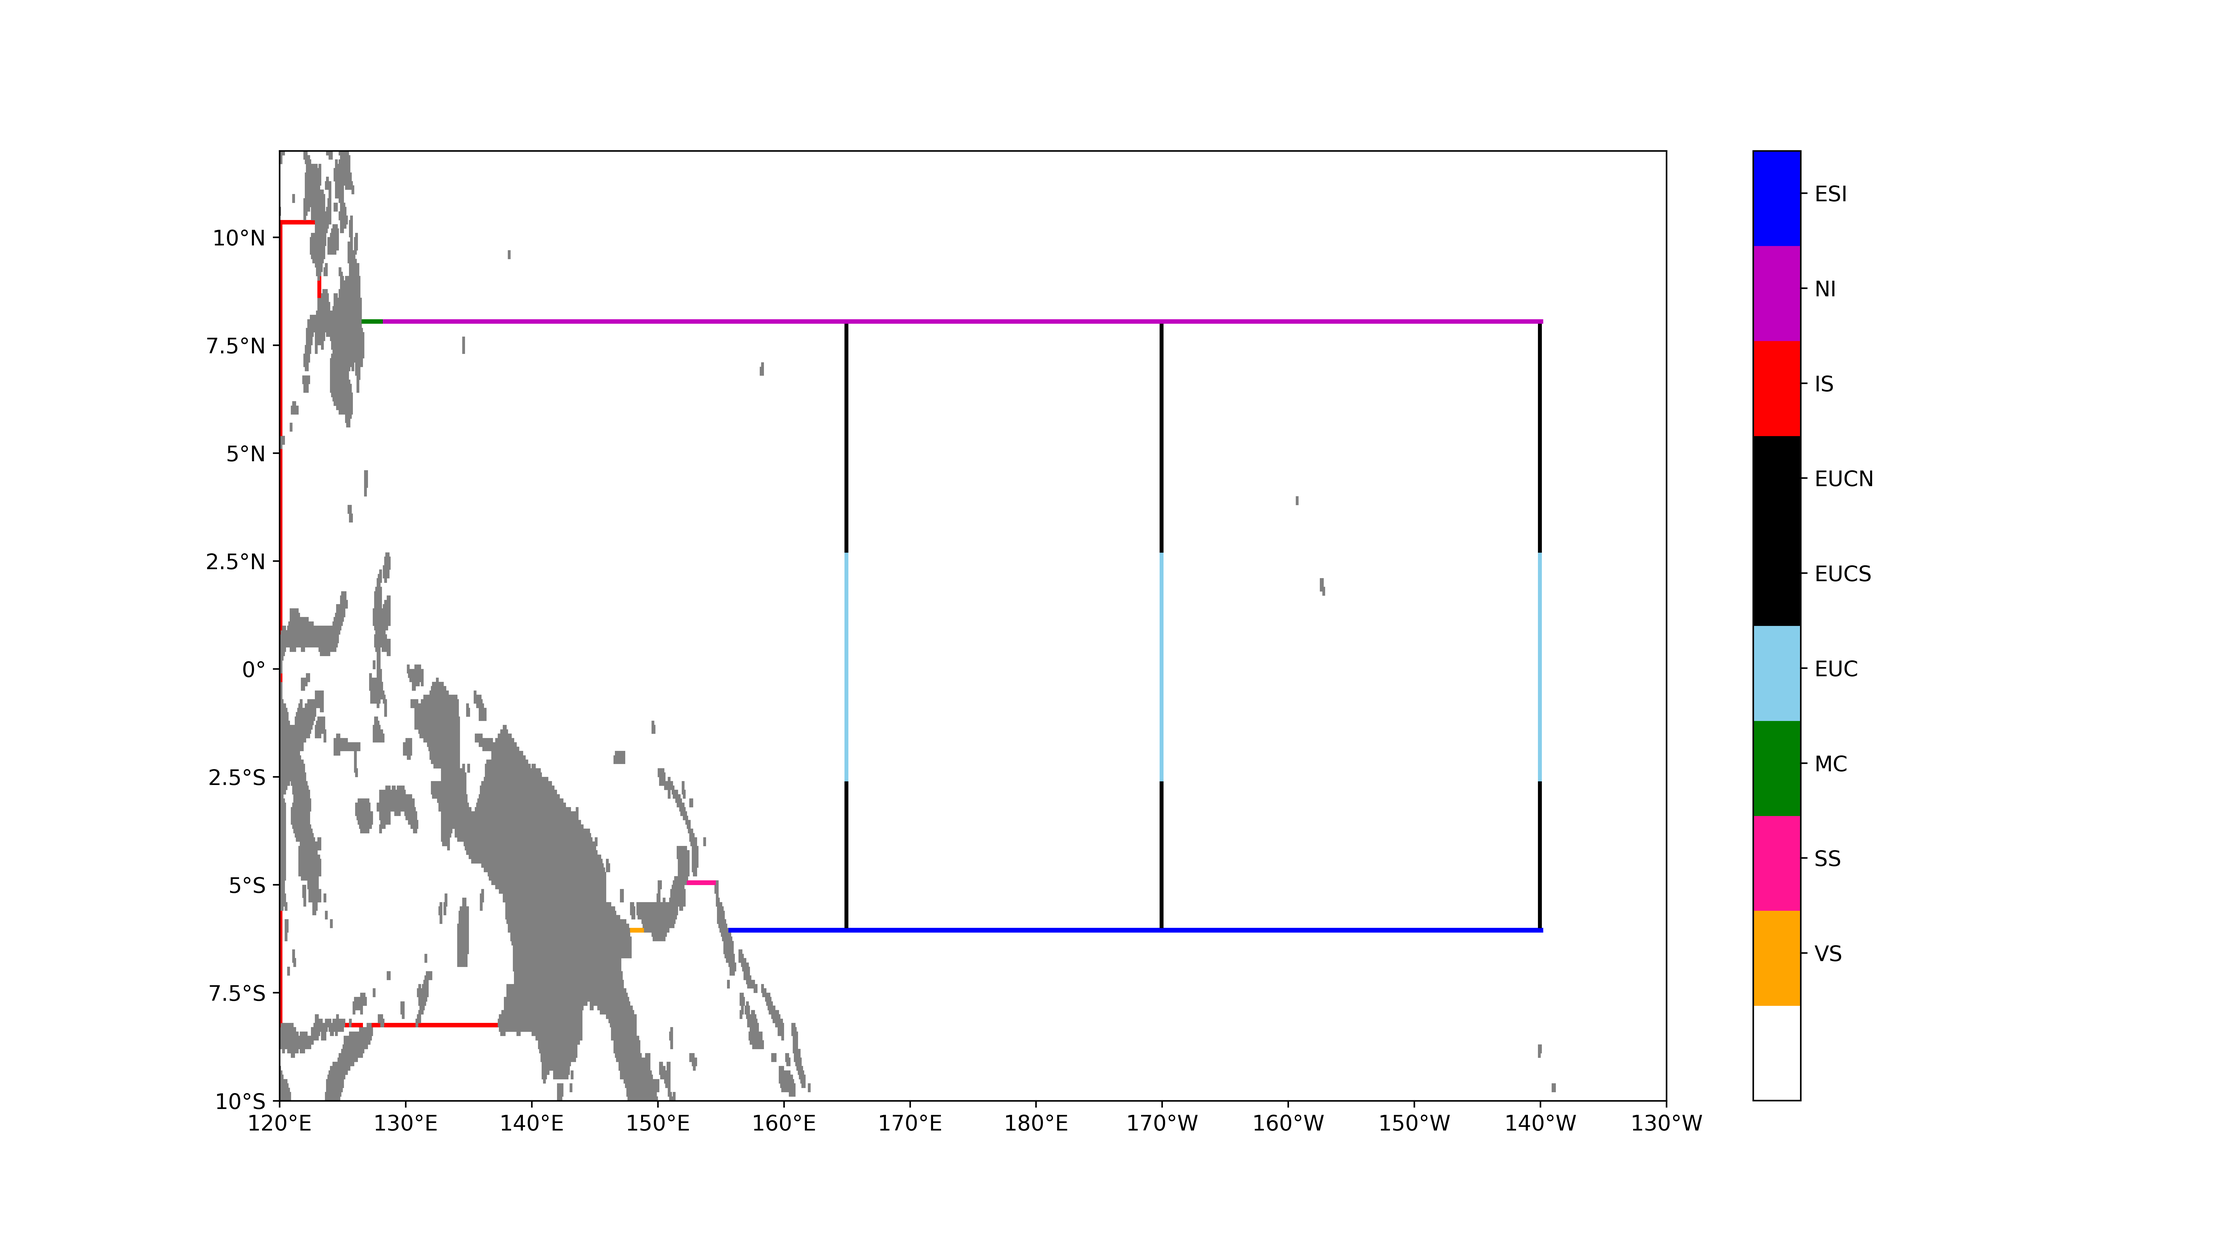
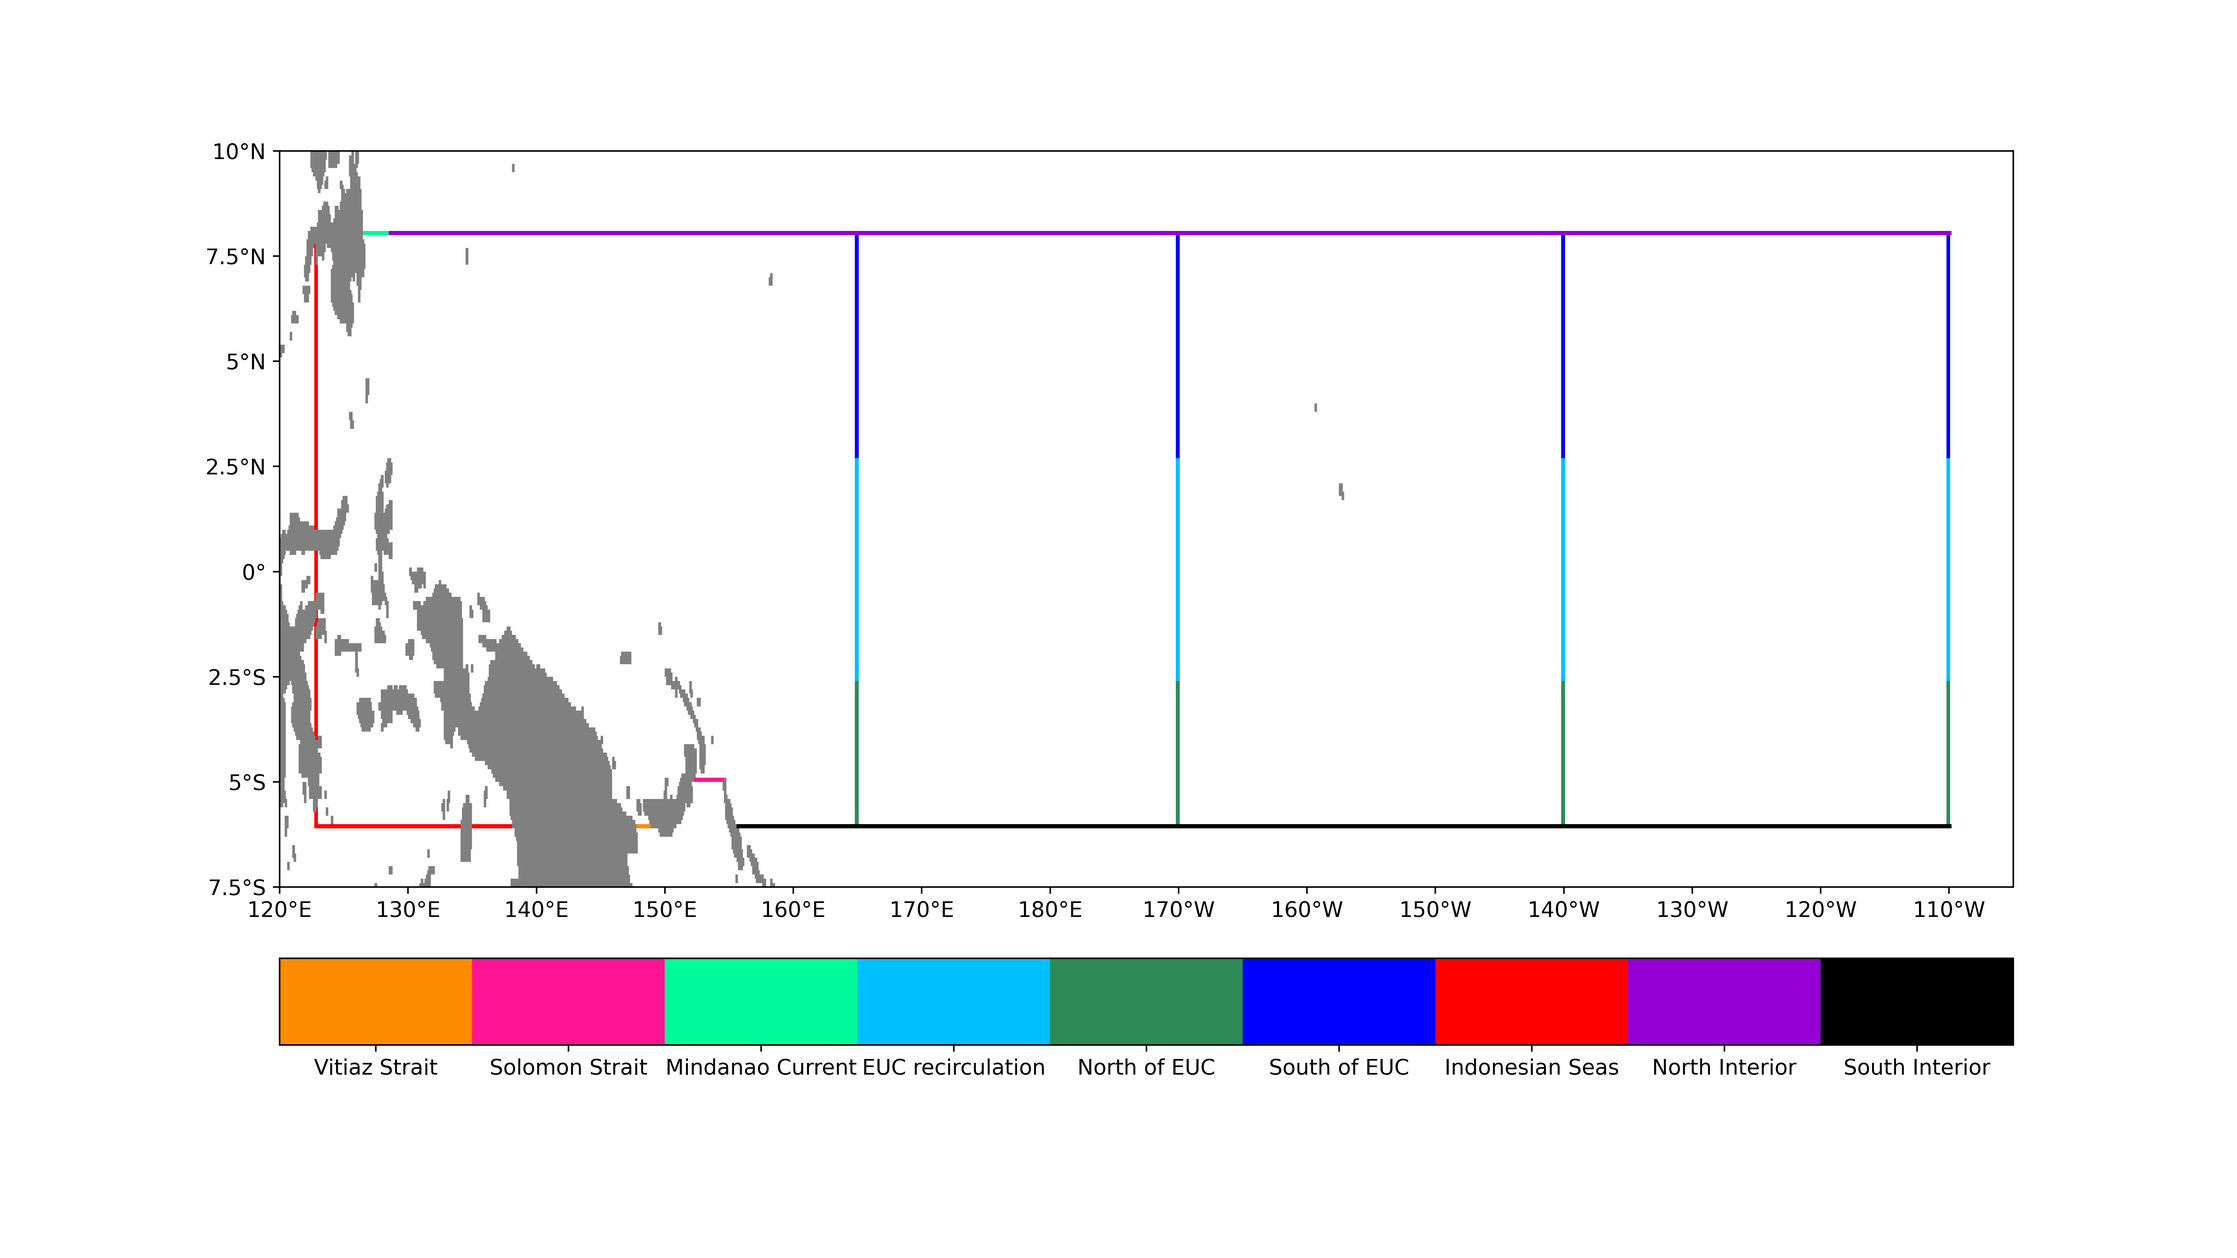
Changed fields file

diff --git a/scripts/base.py b/scripts/base.py
@@ -56,7 +56,7 @@ def run_EUC(dy=0.4, dz=25, lon=165, lat=2.6, year=[1981, 2012],
 
     # Run for the number of days between date bounds.
     if runtime_days == 'all':
-        runtime = timedelta(days=(date_bnds[1] - date_bnds[0]).days)
+        runtime = timedelta(days=(date_bnds[1] - date_bnds[0]).days+1)
     else:
         runtime = timedelta(days=int(runtime_days))
 
@@ -78,14 +78,14 @@ def run_EUC(dy=0.4, dz=25, lon=165, lat=2.6, year=[1981, 2012],
     logger.info('{}:Output dt: {:.0f} days'.format(sim_id.stem, outputdt.days))
     logger.info('{}:Repeat release: {} days'.format(sim_id.stem, repeatdt.days))
     logger.info('{}:Particles: Total: {} :/repeat: {}'
-                .format(sim_id.stem, Z * X * Y * math.floor(runtime.days/repeatdt.days), Z * X * Y))
+                .format(sim_id.stem, Z * X * Y * math.ceil(runtime.days/repeatdt.days), Z * X * Y))
 
     # Create fieldset.
     fieldset = main.ofam_fieldset(date_bnds, chunks=chunks, field_method=field_method,
-                                  time_periodic=timedelta(days=(date_bnds[1] - date_bnds[0]).days))
+                                  time_periodic=timedelta(days=(date_bnds[1] - date_bnds[0]).days+1))
 
     # Set fieldset minimum depth.
-    fieldset.mindepth = 2.5
+    fieldset.mindepth = 5
 
     # Set ParticleSet start depth as last fieldset time.
     pset_start = fieldset.U.grid.time[-1]
@@ -137,8 +137,8 @@ if __name__ == "__main__" and cfg.home != Path('E:/'):
 else:
     dy, dz = 1, 200
     lon, lat = 165, 2.6
-    year, month, day = [1981, 1981], 6, 'max'
-    dt_mins, repeatdt_days, outputdt_days, runtime_days = 240, 6, 1, 7
+    year, month, day = [1981, 1981], 1, 'max'
+    dt_mins, repeatdt_days, outputdt_days, runtime_days = 240, 6, 1, 2
     add_transport, write_fieldset = False, False
     field_method = 'b_grid'
     chunks = 'auto'
@@ -149,61 +149,3 @@ else:
                        runtime_days=runtime_days,
                        field_method=field_method, chunks=chunks,
                        add_transport=False, write_fieldset=False)
-
-
-# date_bnds2 = [get_date(year[0], 1, 1), get_date(year[1], 3, 'max')]
-# fieldset2 = main.ofam_fieldset(date_bnds2, chunks=chunks, field_method=field_method,
-#                                time_periodic=runtime)
-
-# # Set fieldset minimum depth.
-# # fieldset.mindepth = fieldset.U.depth[0]
-
-# # Set ParticleSet start depth as last fieldset time.
-# pset_start = fieldset2.U.grid.time[-1]
-
-# fieldset2.add_constant('pset_start', pset_start)
-# # fieldset.computeTimeChunk(fieldset.time_origin.reltime(get_date(year[1], month, day)), -240*60)
-# # fieldset.computeTimeChunk(2592000, -240*60)
-# # fieldset.computeTimeChunk(fieldset.time_origin.reltime(
-# #     get_date(year[1], 1, 31-runtime_days+2))+12*3600, -240*60)
-# # fieldset.computeTimeChunk(fieldset.time_origin.reltime(
-# #     get_date(year[1], 1, 31))+12*3600, -240*60)
-# # fieldset.computeTimeChunk(fieldset.U.grid.time_full[0], 1)
-
-# sim_id = Path('E:\GitHub\OFAM\data\sim_198101_198101_v77i.nc')
-# tmp_time = fieldset2.time_origin.time_origin
-# tmp_cal = fieldset2.time_origin.calendar
-# class zParticle(JITParticle):
-#     """Particle class that saves particle age and zonal velocity."""
-
-#     # The age of the particle.
-#     age = Variable('age', dtype=np.float32, initial=0.)
-
-#     # The velocity of the particle.
-#     u = Variable('u', dtype=np.float32, initial=fieldset.U, to_write='once')
-#     zone = Variable('zone', dtype=np.float32, initial=fieldset.zone)
-
-
-
-# fieldset2.time_origin.time_origin = np.datetime64(fieldset2.time_origin.time_origin)
-# fieldset2.time_origin.calendar = 'np_datetime64'
-# # Need to computer nearest time chunk of fieldset when executing again
-
-#             pset2 = ParticleSet.from_particlefile(fieldset2+-+```+`+`+`+```` -+
-
-#                                                   .0, pclass=zParticle,
-#                                       filename=sim_id,
-#                                       restart=True, repeatdt=repeatdt)
-# kernels = (AdvectionRK4_3D + pset2.Kernel(Age) +
-#            pset2.Kernel(DeleteWestward))
-# fieldset.time_origin.time_origin = tmp_time
-# fieldset.time_origin.calendar = tmp_cal
-
-# # Need to computer nearest time chunk of fieldset when executing again
-
-# output_file = pset2.ParticleFile(Path('E:\GitHub\OFAM\data\sim_198101_198103_v33i.nc'),
-#                                  outputdt=outputdt)
-# pset2.execute(kernels, runtime=runtime, dt=dt, output_file=output_file,
-#               recovery={ErrorCode.ErrorOutOfBounds: DeleteParticle,
-#                         ErrorCode.ErrorThroughSurface: SubmergeParticle},
-#               verbose_progress=True)

diff --git a/scripts/main.py b/scripts/main.py
@@ -50,13 +50,14 @@ import math
 import random
 import numpy as np
 import xarray as xr
+import pandas as pd
 from pathlib import Path
 import matplotlib.pyplot as plt
 from collections import OrderedDict
-from parcels import FieldSet, Field, ParticleSet, JITParticle
-from parcels import ErrorCode, Variable, AdvectionRK4_3D, AdvectionRK4
+from parcels import (FieldSet, Field, ParticleSet, JITParticle,
+                     ErrorCode, Variable, AdvectionRK4_3D, AdvectionRK4)
 from tools import timeit
-from datetime import datetime
+from datetime import datetime, timedelta
 from operator import attrgetter
 logger = tools.mlogger(Path(sys.argv[0]).stem)
 
@@ -85,17 +86,27 @@ def ofam_fieldset(date_bnds, field_method='b_grid', time_periodic=False,
 
     # Create list of files for each variable based on selected years and months.
     u, v, w = [], [], []
+
     for y in range(date_bnds[0].year, date_bnds[1].year + 1):
+
         for m in range(date_bnds[0].month, date_bnds[1].month + 1):
             u.append(str(cfg.ofam/('ocean_u_{}_{:02d}.nc'.format(y, m))))
             v.append(str(cfg.ofam/('ocean_v_{}_{:02d}.nc'.format(y, m))))
             w.append(str(cfg.ofam/('ocean_w_{}_{:02d}.nc'.format(y, m))))
+            # f = np.arange(np.datetime64(tools.get_date(y, m, 1)),
+            #                         np.datetime64(tools.get_date(y, m, 'max')), timedelta(days=1)).astype('datetime64[ns]')
+            # if y == date_bnds[0].year and m == date_bnds[0].month:
+            #     timestamps = f
+            # else:
+            #     timestamps = np.append(timestamps, f)
+
 
     variables = {'U': 'u', 'V': 'v', 'W': 'w'}
     dims = {'time': 'Time', 'depth': 'sw_ocean', 'lat': 'yu_ocean', 'lon': 'xu_ocean'}
     dimensions = {'U': {'time': 'Time', 'depth': 'sw_ocean', 'lat': 'yu_ocean', 'lon': 'xu_ocean'},
                   'V': {'time': 'Time', 'depth': 'sw_ocean', 'lat': 'yu_ocean', 'lon': 'xu_ocean'},
                   'W': {'time': 'Time', 'depth': 'sw_ocean', 'lat': 'yu_ocean', 'lon': 'xu_ocean'}}
+    # timestamps = stamps  #np.expand_dims(np.array(stamps), axis=1)
 
     if field_method != 'xarray':
         files = {'U': {'depth': w[0], 'lat': u[0], 'lon': u[0], 'data': u},
@@ -177,9 +188,8 @@ def SubmergeParticle(particle, fieldset, time):
 
 def Age(particle, fieldset, time):
     """Update particle age."""
-    if particle.age == 0.:
-        if particle.u < 0.:
-            particle.delete()
+    if particle.age == 0. and particle.u <= 0.:
+        particle.delete()
     particle.age = particle.age + math.fabs(particle.dt)
 
 
@@ -286,13 +296,16 @@ def EUC_particles(fieldset, date_bnds, p_lats, p_lons, p_depths,
         u = Variable('u', dtype=np.float32, initial=fieldset.U, to_write='once')
 
         zone = Variable('zone', dtype=np.float32, initial=fieldset.zone)
-
+    # fieldset.time_origin.time_origin = np.datetime64(fieldset.time_origin.time_origin)
+    # fieldset.time_origin.calendar = 'np_datetime64'
     # Create particle set.
     pset = EUC_pset(fieldset, zParticle, p_lats, p_lons, p_depths, pset_start, repeatdt)
-
+    # pset.time_origin.time_origin = np.datetime64(pset.time_origin.time_origin)
+    # pset.time_origin.calendar = 'np_datetime64'
     # Output particle file p_name and time steps to save.
     output_file = pset.ParticleFile(cfg.data/sim_id.stem, outputdt=outputdt)
     logger.debug('{}:tempwritedir:{}'.format(sim_id.stem, output_file.tempwritedir_base))
+    logger.debug('{}:pset size:{}'.format(sim_id.stem, pset.size))
 
     if all_kernels:
         logger.info('{}:pset.Kernel(Age)+AdvectionRK4_3D'.format(sim_id.stem))
@@ -393,10 +406,10 @@ def plot3D(sim_id):
         sim_id (pathlib.Path): ParticleFile to plot.
 
     """
-    ds = xr.open_dataset(sim_id)#.isel(obs=slice(0, 100))
-    # ds = ds.where(ds.u > 0, drop=True)
-    plt.figure(figsize=(13, 10))
-    ax = plt.axes(projection='3d')
+    ds = xr.open_dataset(sim_id, decode_cf=True)
+    ds = ds.where(ds.u > 0, drop=True)
+    fig = plt.figure(figsize=(13, 10))
+    ax = fig.add_subplot(111, projection='3d')
     colors = plt.cm.rainbow(np.linspace(0, 1, len(ds.traj)))
     x = ds.lon
     y = ds.lat
@@ -408,8 +421,8 @@ def plot3D(sim_id):
     ax.set_ylabel("Latitude")
     ax.set_zlabel("Depth [m]")
     ax.set_zlim(np.max(z), np.min(z))
+    fig.savefig(cfg.fig/(sim_id.stem + cfg.im_ext))
     plt.show()
-    plt.savefig(cfg.fig/(sim_id.stem + cfg.im_ext))
     plt.close()
     ds.close()
 

diff --git a/scripts/base_restart.py b/scripts/base_restart.py
@@ -1,0 +1,91 @@
+# -*- coding: utf-8 -*-
+"""
+created: Mon May 25 10:00:49 2020
+
+author: Annette Stellema (astellemas@gmail.com)
+
+
+"""
+import main
+import cftime
+import cfg
+import tools
+import math
+import numpy as np
+from pathlib import Path
+from tools import get_date, timeit
+from datetime import timedelta
+from argparse import ArgumentParser
+from parcels import (FieldSet, Field, ParticleSet, JITParticle,
+                     ErrorCode, Variable, AdvectionRK4_3D, AdvectionRK4)
+year = [1981, 1981]
+# Advection step (negative because running backwards).
+dt = -timedelta(minutes=240)
+
+# Repeat particle release time.
+repeatdt = timedelta(days=6)
+
+# Advection steps to write.
+outputdt = timedelta(days=1)
+
+date_bnds2 = [get_date(year[0], 1, 1), get_date(year[1], 3, 'max')]
+
+# Run for the number of days between date bounds.
+runtime = timedelta(days=(date_bnds2[1] - date_bnds2[0]).days)
+
+fieldset2 = main.ofam_fieldset(date_bnds2, chunks='auto', field_method='b_grid')
+
+# Set fieldset minimum depth.
+fieldset2.mindepth = 2.5
+
+# Set ParticleSet start depth as last fieldset time.
+pset_start = fieldset2.U.grid.time[-1]
+
+# fieldset.computeTimeChunk(fieldset.time_origin.reltime(get_date(year[1], month, day)), -240*60)
+# fieldset.computeTimeChunk(2592000, -240*60)
+# fieldset.computeTimeChunk(fieldset.time_origin.reltime(
+#     get_date(year[1], 1, 31-runtime_days+2))+12*3600, -240*60)
+# fieldset.computeTimeChunk(fieldset.time_origin.reltime(
+#     get_date(year[1], 1, 31))+12*3600, -240*60)
+# fieldset.computeTimeChunk(fieldset.U.grid.time_full[0], 1)
+
+
+class zParticle(JITParticle):
+    """Particle class that saves particle age and zonal velocity."""
+
+    # The age of the particle.
+    age = Variable('age', dtype=np.float32, initial=0.)
+
+    # The velocity of the particle.
+    u = Variable('u', dtype=np.float32, initial=fieldset2.U, to_write='once')
+
+    zone = Variable('zone', dtype=np.float32, initial=fieldset2.zone)
+
+
+# Need to computer nearest time chunk of fieldset when executing again
+psetx = ParticleSet.from_list(fieldset=fieldset2, pclass=cfg.ptype['scipy'],
+                              lon=[165], lat=[2], depth=[100], time=pset_start)
+
+psetx.execute(AdvectionRK4_3D, runtime=timedelta(days=int(1)), dt=dt,
+              recovery={ErrorCode.ErrorOutOfBounds: main.DeleteParticle,
+                        ErrorCode.ErrorThroughSurface: main.SubmergeParticle},
+              verbose_progress=True)
+
+sim_id = Path('E:\GitHub\OFAM\data\sim_198101_198103_v33i.nc')
+
+tmp_time = fieldset2.time_origin.time_origin
+tmp_cal = fieldset2.time_origin.calendar
+# fieldset2.time_origin.time_origin = np.datetime64(fieldset2.time_origin.time_origin)
+# fieldset2.time_origin.calendar = 'np_datetime64'
+
+pset2 = ParticleSet.from_particlefile(fieldset2, pclass=zParticle, filename=sim_id, restart=True)
+
+fieldset2.time_origin.time_origin = tmp_time
+fieldset2.time_origin.calendar = tmp_cal
+kernels = pset2.Kernel(main.Age) + AdvectionRK4_3D
+output_file = pset2.ParticleFile(Path('E:\GitHub\OFAM\data\sim_198101_198103_tmpi.nc'),
+                                 outputdt=outputdt)
+pset2.execute(kernels, runtime=timedelta(days=int(6)), dt=dt,
+              recovery={ErrorCode.ErrorOutOfBounds: main.DeleteParticle,
+                        ErrorCode.ErrorThroughSurface: main.SubmergeParticle},
+              verbose_progress=True)

diff --git a/scripts/tools.py b/scripts/tools.py
@@ -553,14 +553,14 @@ def tidy_files(logs=True, jobs=True):
     return
 
 
-def zone_fieldset(plot=True, file=False):
+def zone_fieldset(plot=True):
     """Create fieldset or plot zone definitions."""
     # Copy 2D empty OFGAM3 velocity grid.
     d = xr.open_dataset(cfg.ofam/'ocean_u_1981_01.nc')
     d = d.isel(st_ocean=0, Time=0)
     d = d.u.where(np.isnan(d.u), 0)
     d = d.drop('st_ocean')
-    eps = 0 if file else 0.1  # Add a bit of padding to the plotted lines.
+    eps = 0 if not plot else 0.1  # Add a bit of padding to the plotted lines.
     for n, zone in enumerate(cfg.zones):
         coords = cfg.zones[zone] if type(cfg.zones[zone][0]) == list else [cfg.zones[zone]]
         for c in coords:
@@ -571,25 +571,28 @@ def zone_fieldset(plot=True, file=False):
                          ~np.isnan(d), n + 1, d)
 
     if plot:
-        d = d.sel(yu_ocean=slice(-10, 12), xu_ocean=slice(120, 230))
-        cmap = colors.ListedColormap(['None', 'orange', 'deeppink',
-                                      'green', 'skyblue', 'k', 'k',
-                                      'red', 'm', 'blue'])
+        d = d.sel(yu_ocean=slice(-7.5, 10), xu_ocean=slice(120, 255))
+
+        cmap = colors.ListedColormap(['darkorange', 'deeppink', 'mediumspringgreen', 'deepskyblue',
+                                      'seagreen', 'blue', 'red', 'darkviolet', 'k'])
         cmap.set_bad('grey')
+        cmap.set_under('white')
         fig = plt.figure(figsize=(16, 9))
         cs = plt.pcolormesh(d.xu_ocean.values, d.yu_ocean.values, d.T,
-                            cmap=cmap, snap=False, linewidth=2)
+                            cmap=cmap, snap=False, linewidth=2, vmin=0.5)
 
         plt.xticks(d.xu_ocean[::100], coord_formatter(d.xu_ocean[::100], 'lon'))
-        plt.yticks(d.yu_ocean[::25], coord_formatter(np.arange(d.yu_ocean[0],
-                                                               d.yu_ocean[-1] + 2.5, 2.5), 'lat'))
-        cbar = fig.colorbar(cs)
-        cbar.set_ticks(np.arange(1.4, 10, 0.9))
-        cbar.set_ticklabels([key for key, value in cfg.zones.items()])
+        plt.yticks(d.yu_ocean[::25], coord_formatter(
+            np.arange(d.yu_ocean[0], d.yu_ocean[-1] + 2.5, 2.5), 'lat'))
+        cbar = fig.colorbar(cs, ticks=np.arange(1, 10), orientation='horizontal',
+                            boundaries=np.arange(0.5, 9.6), pad=0.075)
+        cbar.ax.set_xticklabels(cfg.zone_names)
+
         plt.savefig(cfg.fig/'particle_boundaries.png')
-    if file:
+    if not plot:
         ds = d.to_dataset(name='zone').transpose()
         ds.attrs['history'] = 'Created {}.'.format(datetime.now().strftime("%Y-%m-%d"))
         ds.to_netcdf(cfg.data/'OFAM3_zones.nc')
     d.close()
     return
+zone_fieldset(plot=False)

diff --git a/scripts/cfg.py b/scripts/cfg.py
@@ -95,28 +95,30 @@ tbnds_ofam = [[10*12+3, 27*12+1], [7*12+4, 384], [9*12+4, 384]]
 tbnds_tao = [[0, -1], [0, 24*12+8], [0, 22*12+8]]
 
 dx = 0.1
-e1, e2, e3 = 165 - dx, 190 - dx, 220 - dx
+e1, e2, e3, e4 = 165 - dx, 190 - dx, 220 - dx, 250 - dx
 j1, j2 = -6.1, 8
 zones = {'VS': [147.7, 149, j1, j1],
          'SS': [152.3, 154.6, -5, -5],  # Includes SGC.
-         'MC': [126.2, 128.2, j2, j2],
+         'MC': [126.2, 128.5, j2, j2],
          'EUC': [[e1, e1, -2.6, 2.6],
                  [e2, e2, -2.6, 2.6],
-                 [e3, e3, -2.6, 2.6]],
+                 [e3, e3, -2.6, 2.6],
+                 [e4, e4, -2.6, 2.6]],
          'EUCS': [[e1, e1, j1, -2.6 - dx],
                   [e2, e2, j1, -2.6 - dx],
-                  [e3, e3, j1, -2.6 - dx]],
+                  [e3, e3, j1, -2.6 - dx],
+                  [e4, e4, j1, -2.6 - dx]],
          'EUCN': [[e1, e1, 2.6 + dx, j2],
                   [e2, e2, 2.6 + dx, j2],
-                  [e3, e3, 2.6 + dx, j2]],
-         'IS': [[124.4, 126.4, -8.3, -8.3],
-                [127.4, 140.4, -8.3, -8.3],
-                [120, 120, -8.3, 10.3],
-                [120, 122.9, 10.3, 10.3],
-                [123.1, 123.1, 8.6, 9.1]],
-         'NI': [128.2 + dx, e3 + dx, j2, j2],
-         'ESI': [155, e3 + dx, j1, j1]}
-
+                  [e3, e3, 2.6 + dx, j2],
+                  [e4, e4, 2.6 + dx, j2]],
+         'IS': [[122.8, 140.4, j1, j1],
+                [122.8, 122.8, j1, j2]],
+         'NI': [128.5 + dx, e4 + dx, j2, j2],
+         'SI': [155, e4 + dx, j1, j1]}
+zone_names = ['Vitiaz Strait', 'Solomon Strait', 'Mindanao Current',
+              'EUC recirculation', 'North of EUC', 'South of EUC',
+              'Indonesian Seas', 'North Interior', 'South Interior']
 # Suppress scientific notation when printing.
 np.set_printoptions(suppress=True)
 
